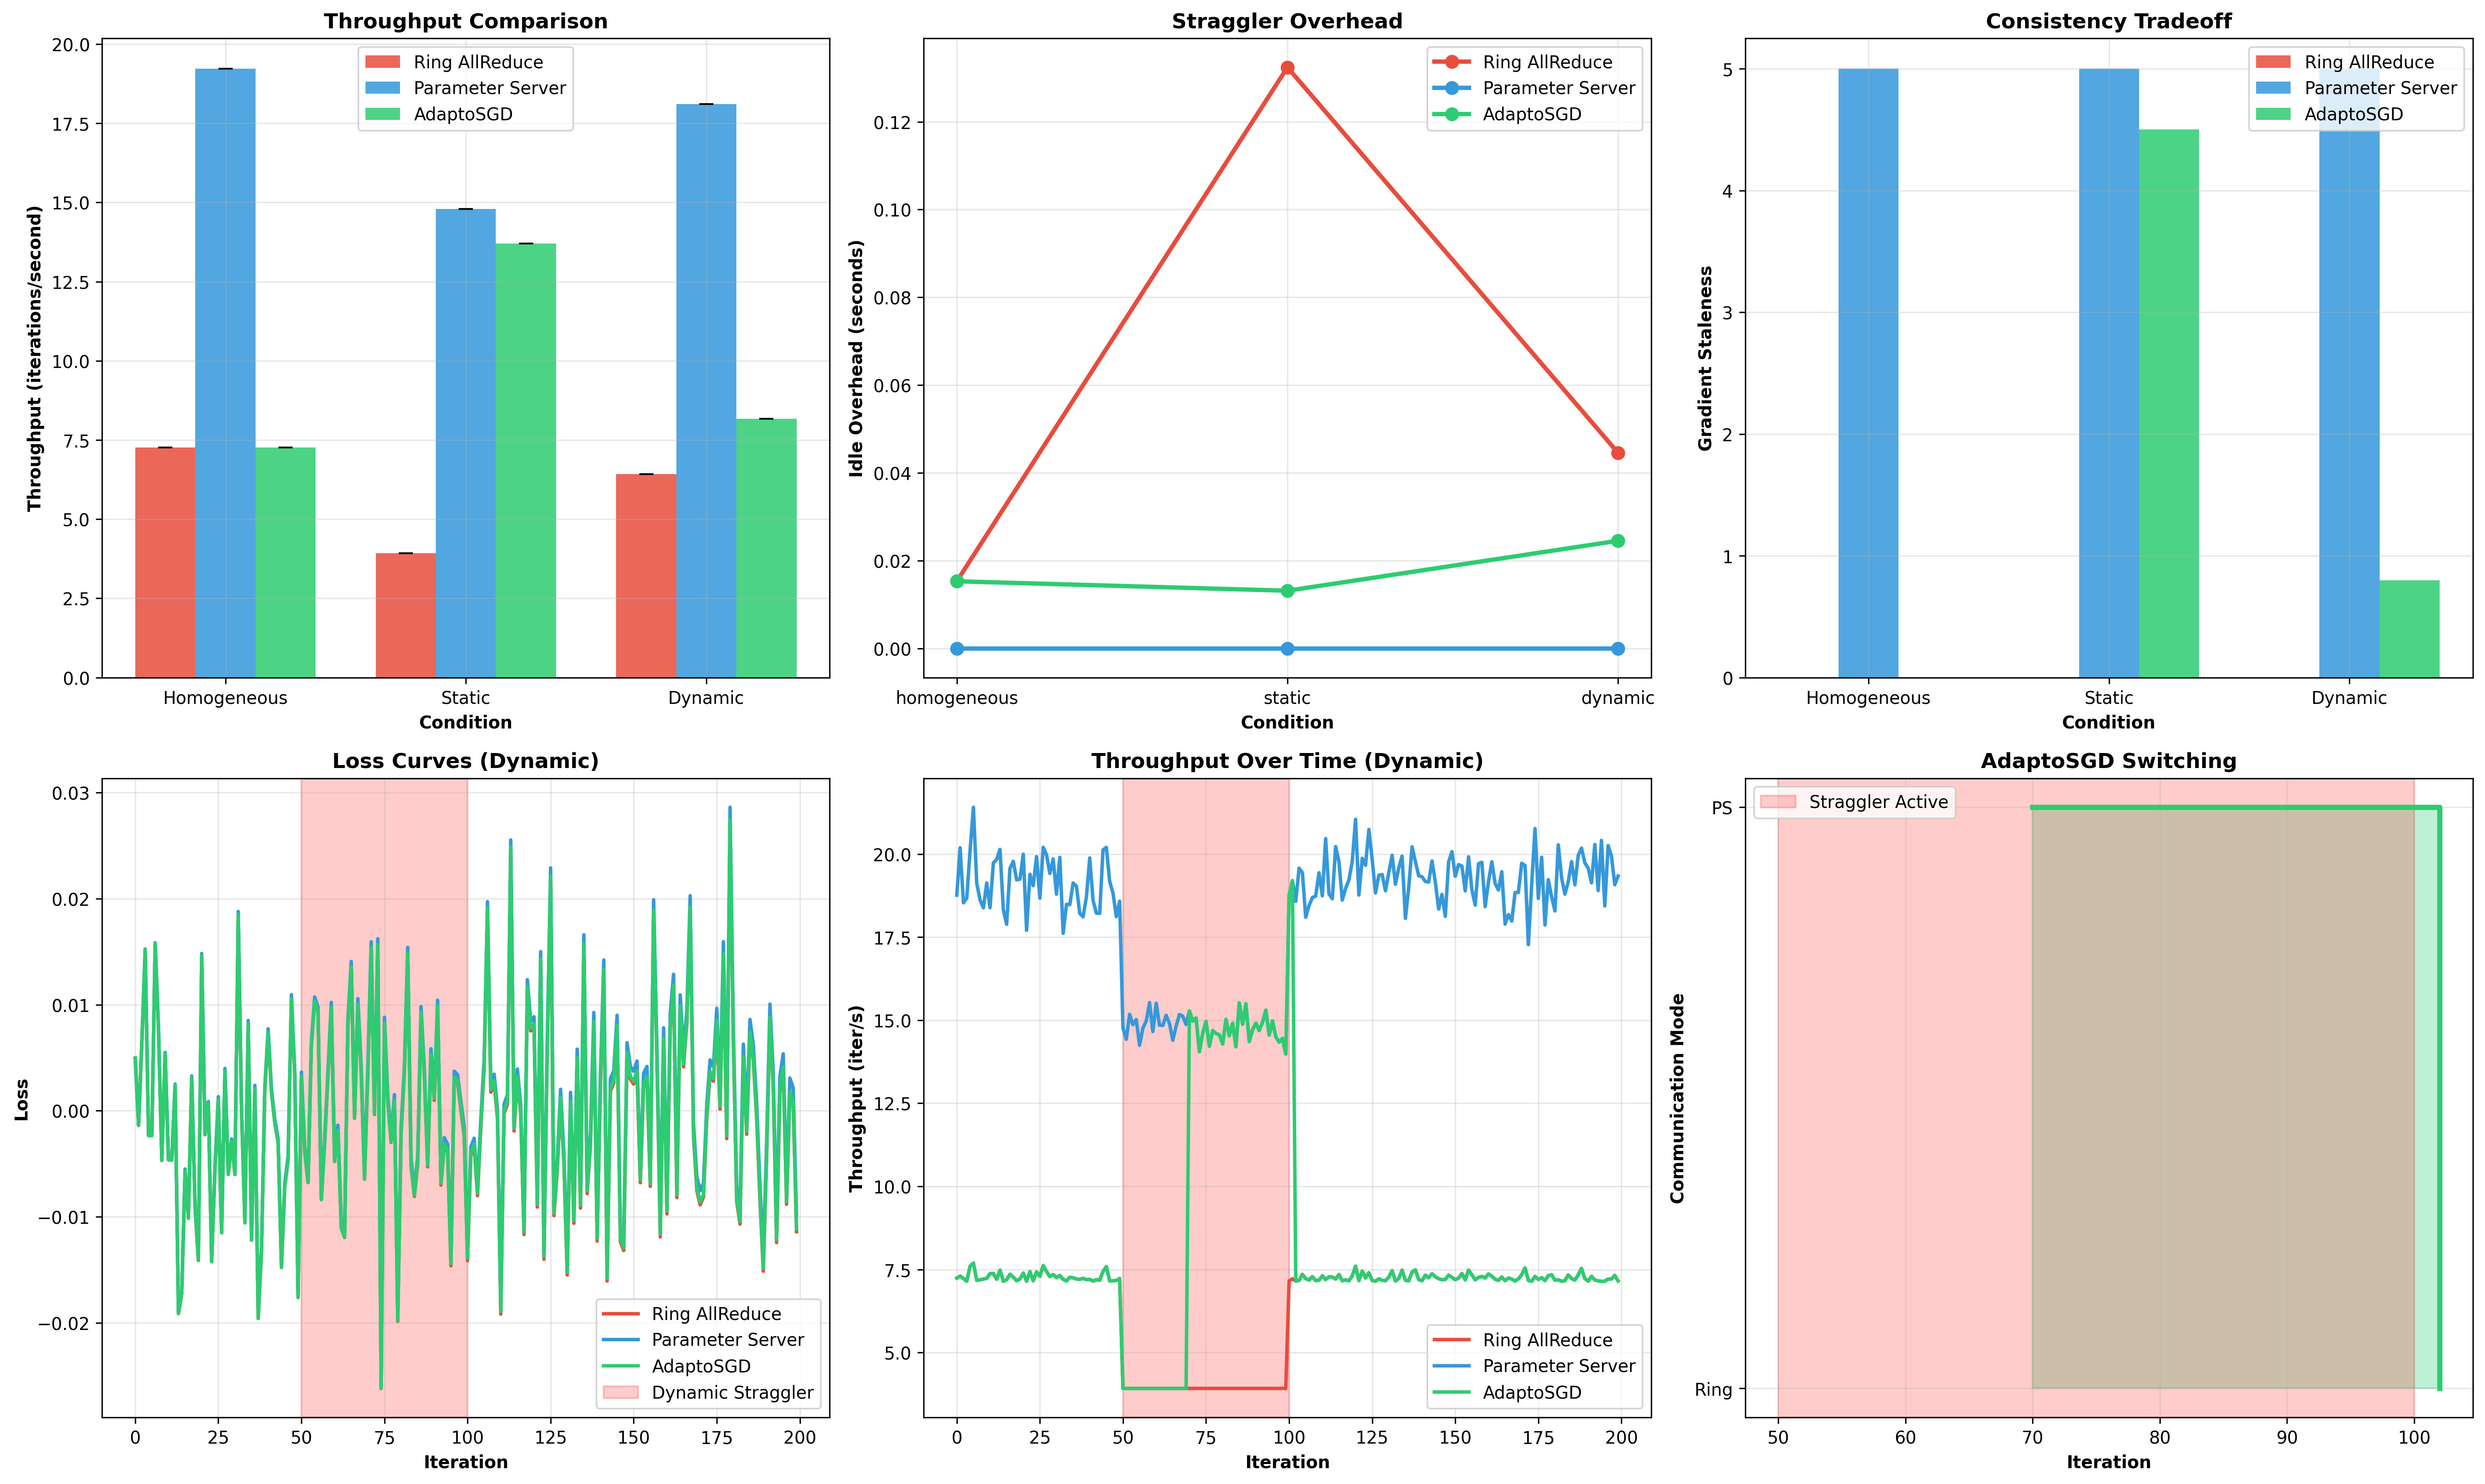
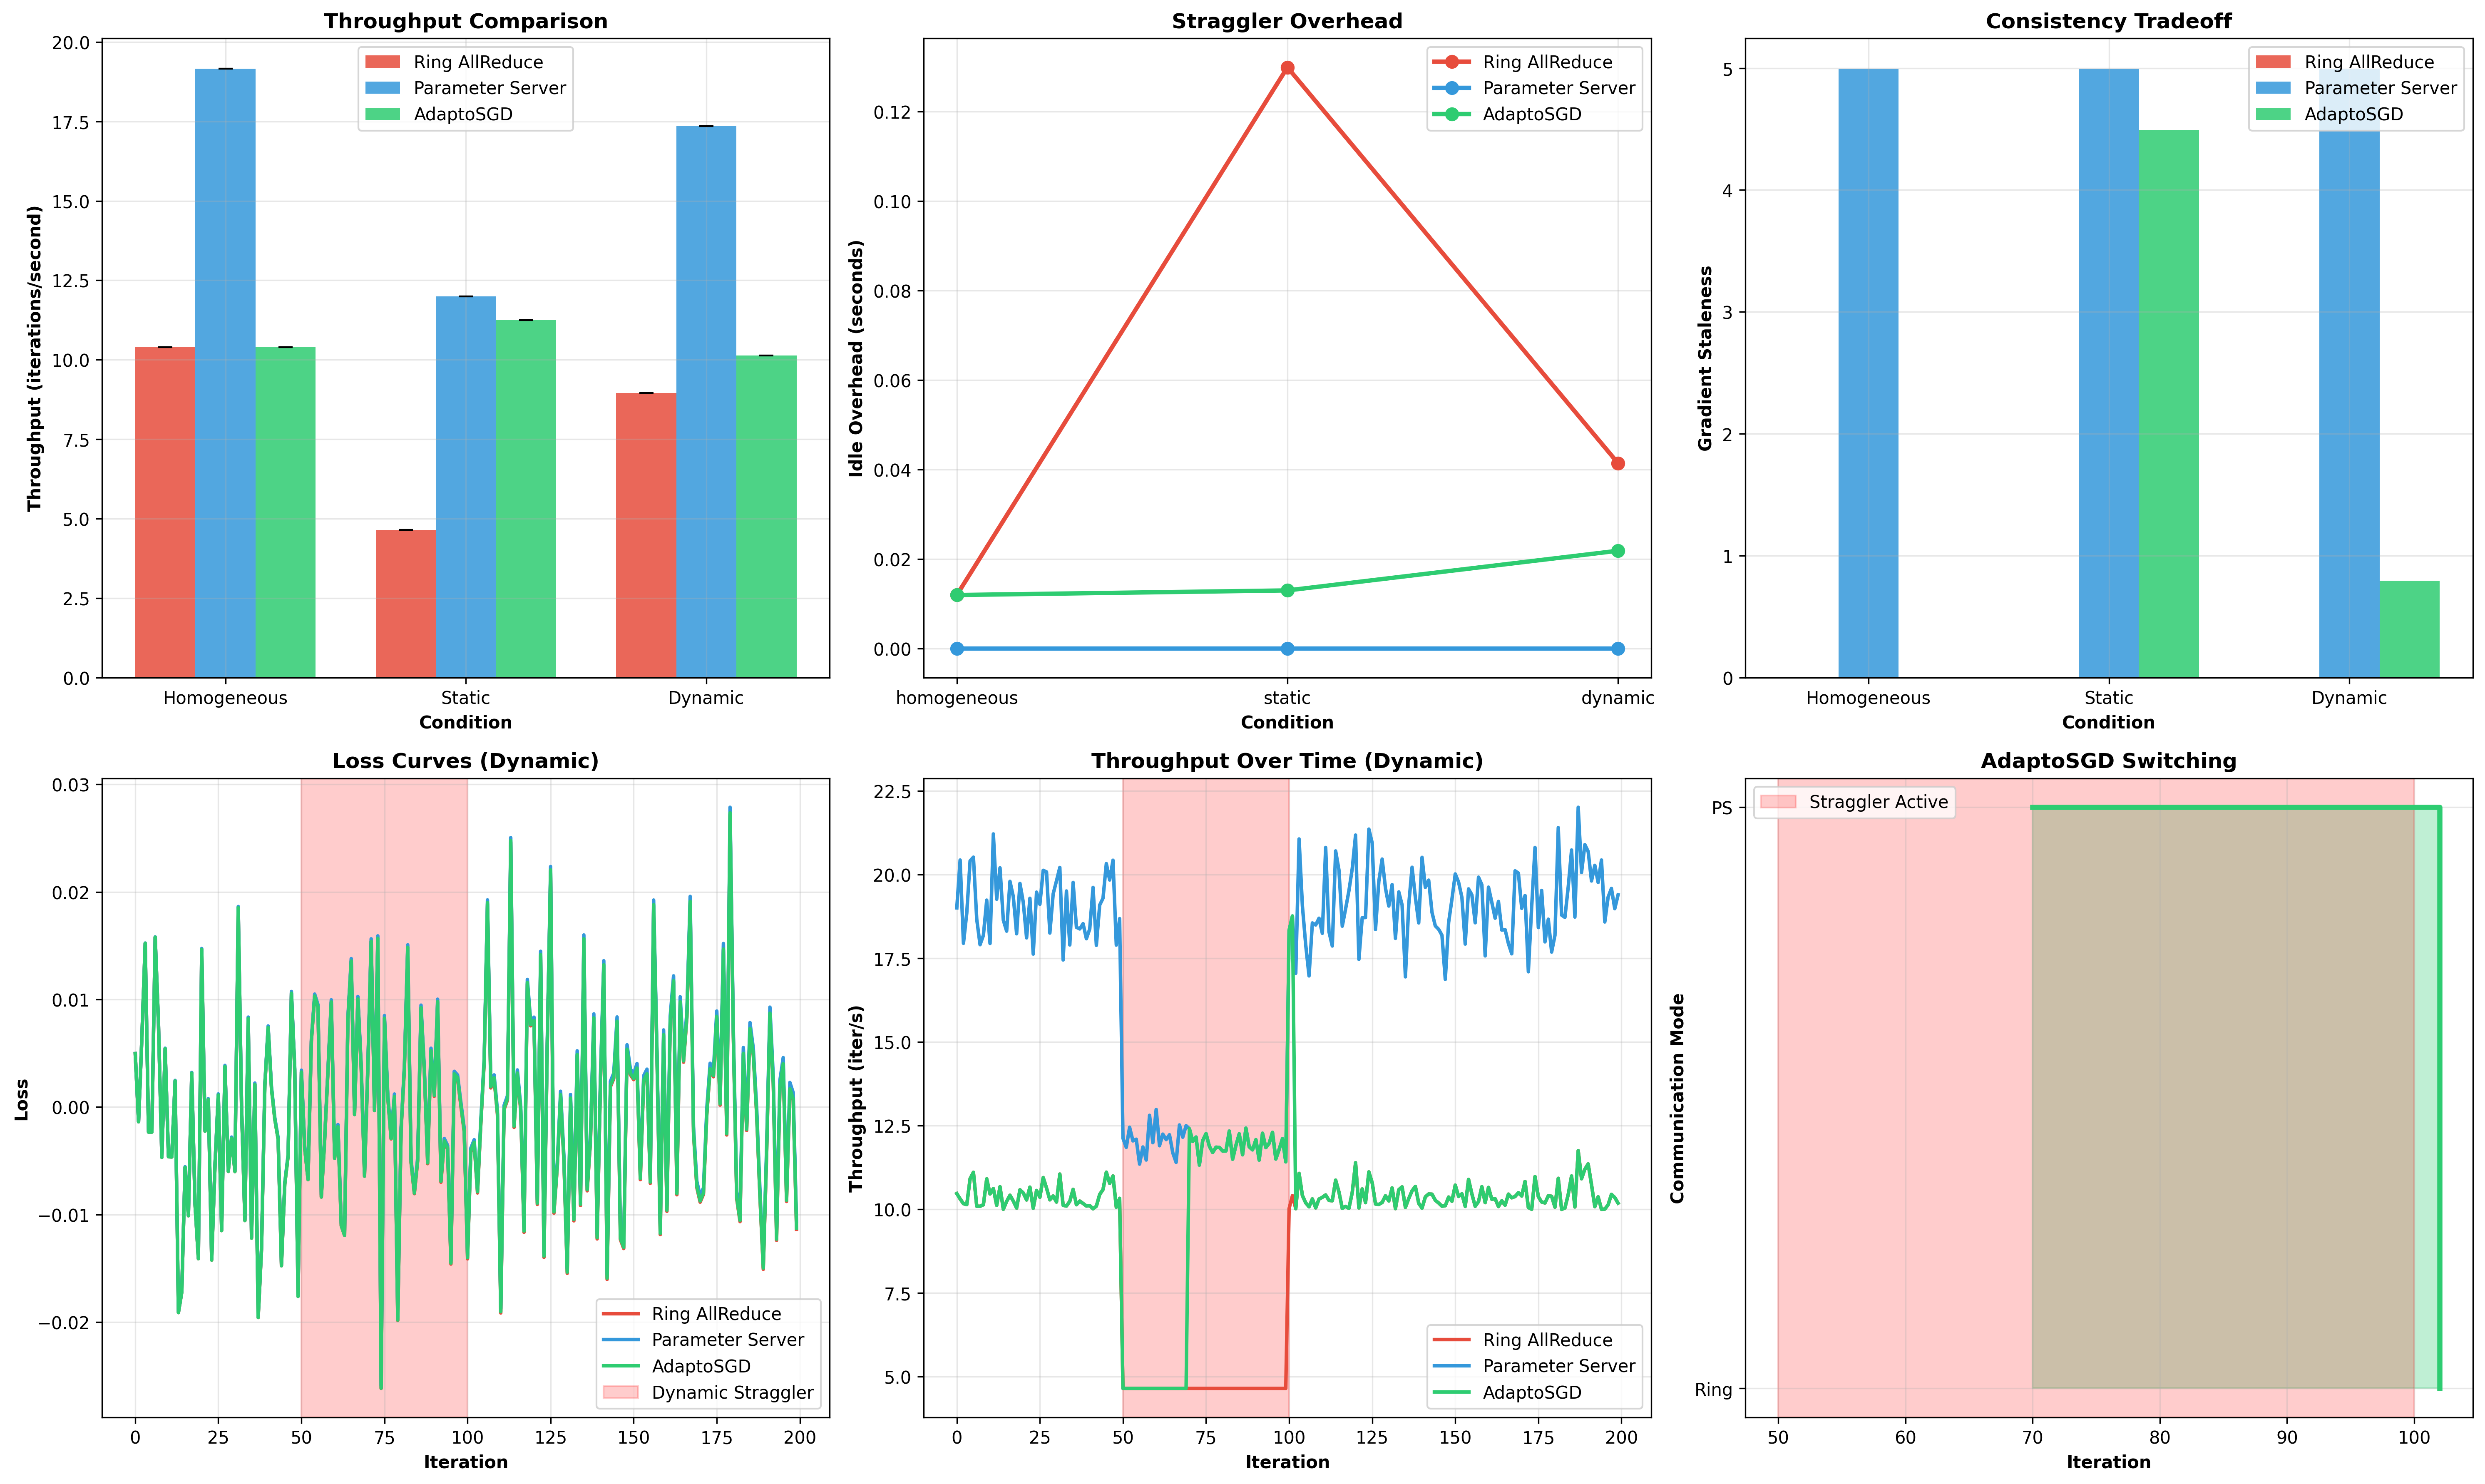
project socumentation added

diff --git a/Project Deliverables and Guidelines.md b/Project Deliverables and Guidelines.md
@@ -1,0 +1,181 @@
+**Department of Computing**
+**Course: Parallel and Distributed Computing**
+**Semester Project Assignment Brief**
+**Group Size: 3 Students**
+
+**1. Purpose**
+
+The core KPI of this project is the quality of distributed systems design and analysis. Application logic alone is insufficient.
+
+**2. Learning Outcomes**
+
+By completing this project, students should be able to:
+
+- Critically evaluate distributed system architectures.
+
+- Analyze scalability, performance, and fault tolerance trade-offs.
+
+- Design a distributed solution grounded in research literature.
+
+- Implement and experimentally validate a system-level improvement.
+
+- Justify novelty and system contribution at C-6 level.
+
+**3. Project Themes (Select One)**
+
+Each group must choose one of the following themes:
+
+- Custom Consensus Protocol under Network Partitions
+
+- Adaptive Distributed Load Balancer
+
+- GPU vs CPU Parallel Numerical Solver (Performance Modeling Focus)
+
+- Mini Pregel: Parallel Graph Processing Engine
+
+- Distributed SGD: Parameter Server vs Ring AllReduce
+
+- Gossip vs Structured Overlay Aggregation
+
+- Byzantine-Resilient Distributed Averaging
+
+- Distributed Checkpointing Strategy Optimization
+
+- Distributed Cache Coherence Simulator
+
+- Serverless Execution Simulator with Adaptive Resource Policy
+
+Any variation must receive prior approval.
+
+**4. Mandatory Academic Requirements**
+
+**4.1 Literature Review**
+
+Minimum 10 peer-reviewed research papers (conference/journal).
+The review must include:
+
+- Comparative summary table
+
+- Identified limitations
+
+- Explicit gap analysis
+
+**4.2 Gap Analysis**
+
+Students must clearly define:
+
+- What problem remains unresolved?
+
+- What tradeoff is insufficiently addressed?
+
+- What failure or scalability bottleneck exists?
+
+- What improvement is proposed?
+
+Projects without a defensible gap will not proceed.
+
+**5. Deliverables**
+
+***Deliverable 1: ******Assignment 1***** ****Proposal Defense (****Week starting form 02 March****)**
+
+Presentation and project proposal (10–12 minutes) including:
+
+- Problem statement
+
+- Distributed systems challenge
+
+- Literature review summary
+
+- Gap analysis
+
+- Proposed hypothesis
+
+- Performance metrics
+
+- Experimental plan
+
+Evaluation focus: clarity of distributed core and research grounding.
+
+**Deliverable 2: **** *****Assignment ******2 *****Full System Design Document **
+
+The design report must include:
+
+- System architecture diagram
+
+- Communication model
+
+- Consistency model (if applicable)
+
+- Failure model
+
+- Performance modeling (Amdahl, Gustafson, or message complexity)
+
+- Scalability assumptions
+
+- Implementation plan
+
+- Risk analysis
+
+This stage assesses analytical depth (C-5 level).
+
+**Deliverable 3:**** *****Project:***** Final Presentation ****&**** Demonstration **
+
+Must include:
+
+- Experimental setup description
+
+- Workload modeling
+
+- Scalability results
+
+- Failure scenario evaluation
+
+- Comparative baseline analysis
+
+- Sensitivity analysis
+
+- Measurable improvement
+
+- C-6 novelty justification
+
+Working software without rigorous evaluation will not receive high grades.
+
+**6. C-6 Requirement (Create Level)**
+
+To qualify for highest performance band, students must:
+
+- Propose at least one novel system-level improvement
+
+- Implement and test it
+
+- Compare against baseline
+
+- Demonstrate measurable improvement
+
+- Analyze trade-offs
+
+**7. Evaluation Scheme**
+
+| **Component** | **Weight** |
+| --- | --- |
+| Literature Review & Gap Analysis | 10% |
+| Proposal Defense | 10% |
+| System Design Quality | 20% |
+| Experimental Methodology | 20% |
+| Results & Analysis | 20% |
+| Novelty & C-6 Justification | 20% |
+
+**8. Constraints**
+
+- Projects must demonstrate distributed or parallel behavior across multiple processes, threads, or nodes.
+
+- Pure theoretical or purely machine learning projects without distributed evaluation are not permitted.
+
+- All experimental results must be reproducible.
+
+- Code and report submission is mandatory.
+
+**9. Academic Integrity**
+
+All sources must be cited properly.
+Plagiarism or uncredited reuse of open-source code without modification will result in zero marks.

diff --git a/System Design Doc.md b/System Design Doc.md
@@ -1,0 +1,148 @@
+
+3
+
+Automatic Zoom
+ 
+ 
+ 
+PARALLEL AND DISTRIBUTED COMPUTING 
+ 
+AdaptoSGD 
+Runtime-Adaptive Communication Strategy Switching 
+via Live Straggler Detection 
+Full System Design Document 
+ 
+ 
+Assignment # 02 
+ 
+ 
+Class: BSCS 13D 
+ 
+ 
+Name Qalam ID 
+Alisha Siddiqui 464647 
+Asawer Ayesha 470860 
+ 
+ 
+ 
+  
+ 
+ 
+1. Introduction 
+1.1 The Problem 
+Distributed SGD training relies on one of two communication architectures.  
+Ring AllReduce works well when all workers run at the same speed, because it uses a synchronization 
+barrier. Every worker waits for every other worker before moving on. One slow worker stalls the entire 
+job. 
+Parameter Server removes that barrier. Workers push gradients and pull updates asynchronously, so no 
+one waits. But it introduces gradient staleness and concentrates all network traffic at the server. 
+Neither architecture adapts at runtime. Ring AllReduce is optimal when all workers run at the same speed 
+but becomes catastrophic when one worker is slow. In that case, Parameter Server is the right choice. 
+Parameter Server tolerates stragglers via asynchrony but wastes communication bandwidth even when 
+workers are running perfectly fine and introduces gradient staleness. 
+Real clusters have dynamic worker performance, often within the same training run. A worker slows 
+down due to CPU contention, memory pressure, or OS scheduling, then recovers minutes later. No 
+existing system performs runtime-adaptive communication strategy switching based on live worker 
+performance monitoring. 
+1.2 Our Contribution 
+AdaptoSGD monitors per-worker iteration times every ten training steps. If a straggler is detected, it 
+switches the communication backend to Parameter Server. When the straggler clears, it switches back to 
+Ring AllReduce. The switching logic is the novel contribution of this project. 
+Our hypothesis: an adaptive system that that monitors per-worker iteration time and dynamically switches 
+between synchronous Ring AllReduce and asynchronous Parameter Server gradient aggregation will 
+achieve higher training throughput than either strategy alone in the presence of dynamic straggler 
+behavior, while maintaining convergence stability within bounded staleness guarantees. 
+2. System Architecture 
+The system has three components that run in a continuous loop: the Straggler Monitor, the Adaptive 
+Switcher, and the Communication Backend. Workers sit below all three and are unaware of which mode 
+is active. 
+2.1   Architectural Overview 
+Component Role File Class/Module 
+Component Role / Responsibility File Class / Module 
+Worker 
+Processes 
+(W₁–Wₙ) 
+Maintain local model copies, compute 
+gradients on data shards, and report 
+iteration times to the Monitor. 
+— — 
+Monitor 
+Process 
+Collects per-iteration worker timings, 
+computes straggler score ( \sigma = 
+\frac{t_{max}}{\text{median}(t_i)} ), 
+and publishes it. 
+monitor.py StragglerMonitor 
+Strategy 
+Switcher 
+Reads straggler score and applies 
+switching policy with hysteresis. 
+Updates current mode in shared 
+memory. 
+switcher.py AdaptiveSwitcher 
+ 
+ 
+Parameter 
+Server (PS) 
+Active in PS mode; aggregates 
+gradients asynchronously and 
+broadcasts updated parameters. 
+parameter_server.py — 
+Ring 
+Coordinator 
+Active in AllReduce mode; manages 
+ring topology and coordinates reduce-
+scatter and all-gather phases. 
+ring_allreduce.py — 
+2.2   Layered Architecture Diagram 
+The architecture diagram below shows how data and control signals flow: 
+ 
+2.3 Data Flow Per Iteration 
+Each training iteration follows this sequence: 
+• Each worker computes a local gradient over its mini-batch (simulated as a NumPy random 
+vector). It records its computation time. 
+• Worker timing data is sent to the Monitor process via a multiprocessing Queue. 
+• Every 10 iterations, the Monitor computes the straggler_score and sends a decision signal to the 
+Switcher. 
+ 
+ 
+• The Switcher updates the current_mode flag (with hysteresis applied). This flag is stored in 
+shared memory (multiprocessing.Value). 
+• The Backend reads current_mode and routes the gradient aggregation through either Ring 
+AllReduce or Parameter Server accordingly. 
+• Workers receive the updated model parameters and begin the next iteration. 
+ 
+2.4   State Machine 
+The Switcher operates as a finite state machine with two states: ALLREDUCE and PS. Transitions are 
+governed by the straggler score and a hysteresis counter δ to prevent oscillation: 
+• ALLREDUCE → PS: triggered when σ > τ for any single iteration. Immediate switch. 
+• PS → ALLREDUCE: triggered only after σ ≤ τ for δ = 5 consecutive iterations. This hysteresis 
+prevents thrashing when straggler behavior is transient. 
+• Both transitions are logged with iteration number and σ value for post-experiment analysis. 
+ 
+3. Communication Model 
+3.1 Ring AllReduce Mode 
+Topology: Workers form a logical ring where worker i sends to worker (i+1) mod N and receives from 
+worker (i-1) mod N. 
+Operation proceeds in two phases: 
+• Scatter-Reduce Phase: Each worker sends and receives N-1 messages, each of size G/N bytes 
+(where G is total gradient size). After this phase, each worker holds the partial sum for one 
+segment of the gradient. 
+• AllGather Phase: Each worker broadcasts its partial result around the ring. Another N-1 messages 
+per worker. 
+Total messages per worker: 2(N-1). Data sent per worker: 2G(N-1)/N, where G is the total gradient size. 
+For N=4 this is 1.5G sent and 1.5G received, which is close to optimal. 
+The synchronization barrier is the fatal flaw under straggler conditions. Every worker waits for the 
+slowest one. A straggler running at 3.5x normal speed reduces effective cluster throughput to roughly 
+29% of the ideal rate. 
+3.2 Parameter Server Mode 
+Topology: Star topology. One dedicated server process holds the global model parameters. N worker 
+processes push gradients and pull updated parameters. 
+Total messages per iteration: 2N.  
+The server receives N gradients per iteration, which creates a bandwidth bottleneck at large scale.  
+Workers push gradients and immediately pull the latest parameters without waiting for other workers. The 
+server applies gradients as they arrive (asynchronous SGD). This eliminates straggler blocking at the cost 
+of gradient staleness and a bandwidth bottleneck at the server at large scale. 
+3.3   Communication Model Summary Table 
+Property Ring AllReduce Parameter Server 
+Topology Logical ring among N workers Star: N workers to 1 PS 